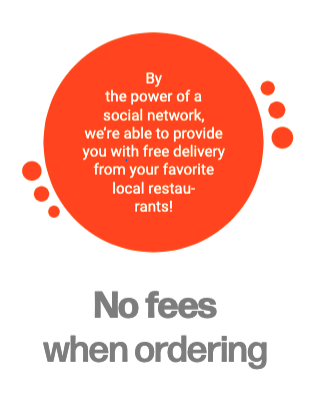
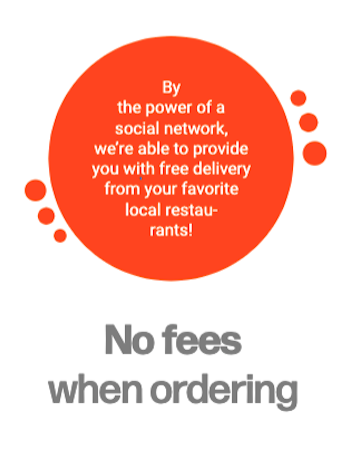
styling

diff --git a/home.js b/home.js
@@ -100,7 +100,7 @@ function sizeWindow(x) {
         
         <span class="navlink" :><a href="#pageTwoPointFive">About Us &nbsp</a></span>
         
-        <span class="navlink":><a href="#pageTwo">How it Works</a></span>
+        <span class="navlink":><a href="#pageTwo">How it Works &nbsp</a></span>
         <span class="navlink" :><a href="./portal.html">Vendor Portal &nbsp</a></span>
         
         <span class="navlink" :><a href="#pageThree">Contact Us</a></span>
@@ -145,40 +145,45 @@ function sizeWindow(x) {
     
     `
     const p2Content = `
-    <div class='container-fluid'>
+    <div class='container-fluid' style = 'margin-top:150px'>
+    <div class = 'row'>
+    <div class = 'col-12 text-center'>
+    <h1 style="color: #FF5200; font-size:500%">We Hate Delivery Fees. So we got rid of 'em!</h1>
+    </div> 
+    </div>
             <div class='row'>
-                <div class=col-4>
+                <div class='col-4' align = 'center'>
                     <div class="flip-container" ontouchstart="this.classList.toggle('hover');">
                         <div class="flipper">
                             <div class="front">
-                                <img src = "./images/front1.png" id="logo" style="height:100%;width: 100%;">
+                                <img src = "./images/front1.png" id="logo" style="height:100%;width:100%;display: block;margin-left: auto;margin-right: auto;">
                             </div>
                             <div class="back">
-                                <img src = "./images/back1.png" id="logo" style="height:100%;width: 100%;">
+                                <img src = "./images/back1.png" id="logo" style="height:100%;width: 100%; display: block;margin-left: auto;margin-right: auto;">
                             </div>
                         </div>
                     </div>
                 </div>
-                <div class=col-4>
+                <div class='col-4' align = 'center'>
                     <div class="flip-container" ontouchstart="this.classList.toggle('hover');">
                         <div class="flipper">
                             <div class="front">
-                                <img src = "./images/front2.png" id="logo" style="height:100%;width: 100%;">
+                                <img src = "./images/front2.png" id="logo" style="height:100%;width: 100%;display: block;margin-left: auto;margin-right: auto;">
                             </div>
                             <div class="back">
-                                <img src = "./images/back2.png" id="logo" style="height:100%;width: 100%;">
+                                <img src = "./images/back2.png" id="logo" style="height:100%;width: 100%;display: block;margin-left: auto;margin-right: auto;">
                             </div>
                         </div>
                     </div>
                 </div>
-                <div class=col-4>
+                <div class='col-4' align = 'center'>
                     <div class="flip-container" ontouchstart="this.classList.toggle('hover');">
                         <div class="flipper">
                             <div class="front">
-                                <img src = "./images/front3.png" id="logo" style="height:100%;width: 100%;">
+                                <img src = "./images/front3.png" id="logo" style="height:100%;width: 100%;display: block;margin-left: auto;margin-right: auto;">
                             </div>
                             <div class="back">
-                                <img src = "./images/back3.png" id="logo" style="height:100%;width: 100%;">
+                                <img src = "./images/back3.png" id="logo" style="height:100%;width: 100%;display: block;margin-left: auto;margin-right: auto;">
                             </div>
                         </div>
                     </div>
@@ -186,12 +191,13 @@ function sizeWindow(x) {
             </div>
         </div>
     
+    
     `
     const p2Point5Content = `
       <div class = 'container-fluid'>
       <div class = 'row'>
-        <div class = 'col-3'>
-        <img src = 'images/ourStory.png' style = 'height:100%;width:100%'>
+        <div class = 'col-5'>
+        <img src = 'images/toppingsteam.png' style = 'height:100%;width:100%'>
         </div>
         <div class = 'col-7' style = 'margin-top:2%;font-weight:bold;font-size:xx-large;'>
         <p>
